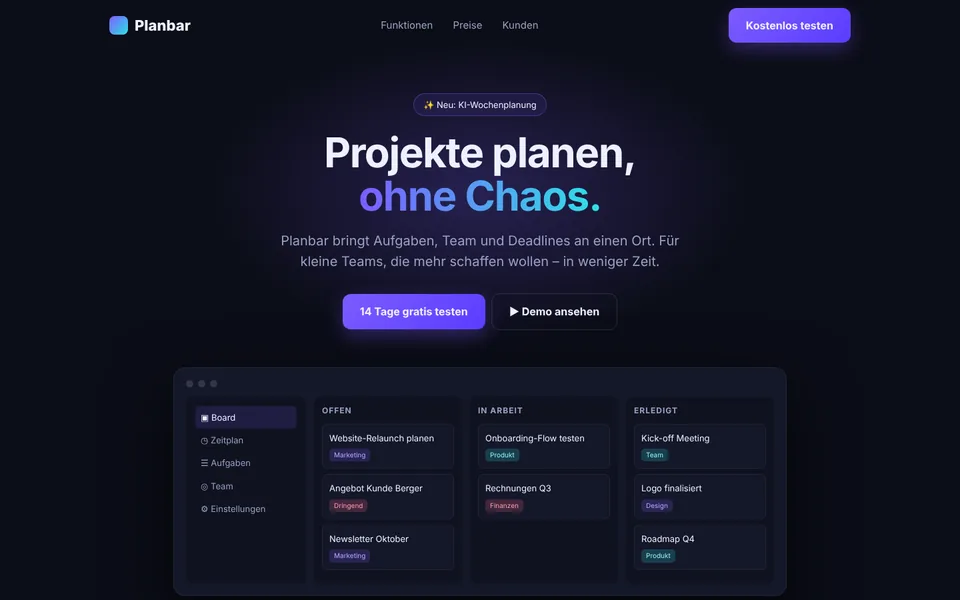
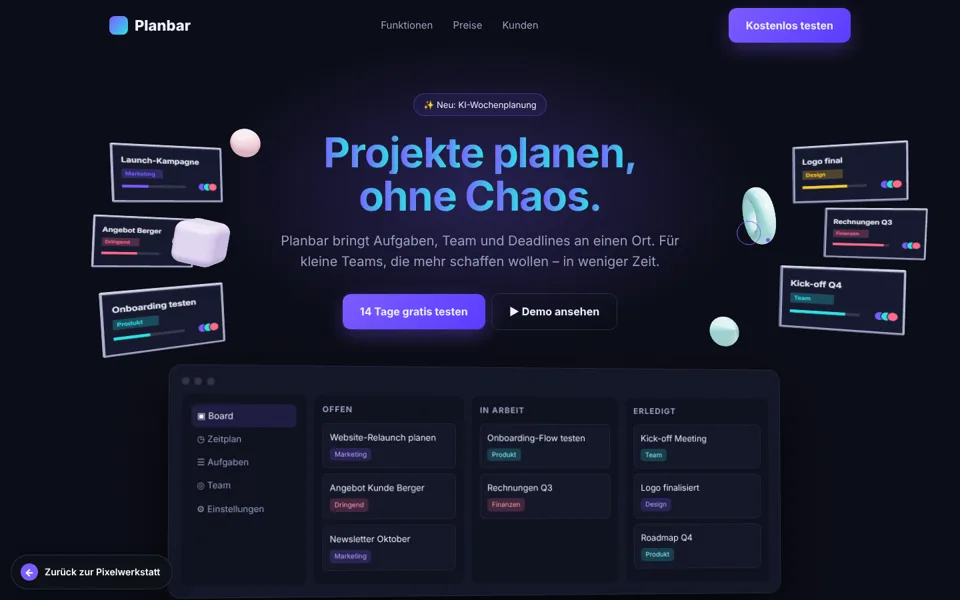
Klassische Demos: Echtzeit-3D-Heroes (Wallbox, Balance-Steine, schwebende Task-Karten) via hero3d.js
Claude-Session: https://claude.ai/code/session_01Whvt8ir917kdNCrT7gGHh6

diff --git a/fiverr/landingpages/hero3d.js b/fiverr/landingpages/hero3d.js
@@ -1,0 +1,177 @@
+/* Real-time 3D hero scenes for the classic demos (three.js r147, UMD).
+   <canvas class="h3d" data-scene="wallbox|stones|cards"> — the scene follows the mouse, can be dragged
+   (wallbox, stones), floats gently, pauses when off screen and renders a still frame for reduced motion. */
+(() => {
+  'use strict';
+  if (!window.THREE || !THREE.RoomEnvironment || !THREE.RoundedBoxGeometry) return;
+  const reduce = matchMedia('(prefers-reduced-motion: reduce)').matches;
+  const fine = matchMedia('(pointer: fine)').matches;
+  const V = (x, y, z) => new THREE.Vector3(x, y, z);
+  let mx = 0, my = 0;
+  addEventListener('pointermove', e => { mx = e.clientX / innerWidth - .5; my = e.clientY / innerHeight - .5; }, {passive: true});
+
+  const phys = o => new THREE.MeshPhysicalMaterial(Object.assign({roughness: .35, clearcoat: .6, clearcoatRoughness: .2}, o));
+  const rbox = (w, h, d, r, mat) => new THREE.Mesh(new THREE.RoundedBoxGeometry(w, h, d, 4, r), mat);
+  const canvasTex = (w, h, draw) => { const c = document.createElement('canvas'); c.width = w; c.height = h; draw(c.getContext('2d'), w, h); const t = new THREE.CanvasTexture(c); t.encoding = THREE.sRGBEncoding; t.anisotropy = 8; return t; };
+  const bolt = (s, depth, mat) => {
+    const sh = new THREE.Shape();
+    [[.15, 1], [-.45, -.05], [-.05, -.05], [-.2, -1], [.45, .15], [.05, .15], [.15, 1]].forEach(([x, y], i) => i ? sh.lineTo(x * s, y * s) : sh.moveTo(x * s, y * s));
+    const g = new THREE.ExtrudeGeometry(sh, {depth, bevelEnabled: true, bevelSize: s * .04, bevelThickness: s * .04, bevelSegments: 2});
+    g.center();
+    return new THREE.Mesh(g, mat);
+  };
+
+  // ---------------- scenes ----------------
+  const SCENES = {
+    wallbox(root, tick) {                       // electrician: wallbox, coiled cable, solar panel, flying bolts
+      const white = phys({color: 0xf4f5f7, roughness: .25, clearcoat: 1});
+      const glass = phys({color: 0x0d1420, roughness: .08, metalness: .2, clearcoat: 1});
+      const amber = new THREE.MeshStandardMaterial({color: 0xffc928, emissive: 0xffb300, emissiveIntensity: 1.2});
+      const rubber = phys({color: 0x1a1d22, roughness: .55, clearcoat: .2});
+      const box = new THREE.Group(); root.add(box);
+      box.add(rbox(1.7, 2.5, .55, .26, white));
+      const face = rbox(1.36, 1.7, .06, .12, glass); face.position.set(0, .2, .29); box.add(face);
+      const ring = new THREE.Mesh(new THREE.TorusGeometry(.34, .045, 16, 64), amber); ring.position.set(0, .35, .33); box.add(ring);
+      const b = bolt(.22, .04, amber); b.position.set(0, .35, .33); box.add(b);
+      const dots = [0, 1, 2].map(i => { const d = new THREE.Mesh(new THREE.SphereGeometry(.035, 12, 8), amber.clone()); d.position.set(-.18 + i * .18, -.35, .33); box.add(d); return d; });
+      // cable leaves the bottom and coils toward a plug
+      const pts = [V(0, -1.25, 0), V(0, -1.7, .1)];
+      for (let i = 0; i <= 40; i++) { const a = i / 40 * Math.PI * 3.2; pts.push(V(Math.cos(a) * .55 + .55, -1.9 - i * .012, Math.sin(a) * .55 + .3)); }
+      pts.push(V(1.6, -2.1, .9), V(2.1, -1.8, 1.2));
+      const cable = new THREE.Mesh(new THREE.TubeGeometry(new THREE.CatmullRomCurve3(pts), 220, .07, 12), rubber); root.add(cable);
+      const plug = new THREE.Group(); plug.position.set(2.15, -1.75, 1.25); plug.rotation.z = .6; root.add(plug);
+      plug.add(rbox(.32, .55, .32, .1, rubber));
+      const tip = new THREE.Mesh(new THREE.CylinderGeometry(.11, .11, .14, 24), white); tip.position.y = .33; plug.add(tip);
+      // solar panel
+      const cells = canvasTex(512, 320, (g, w, h) => {
+        g.fillStyle = '#0d2a5c'; g.fillRect(0, 0, w, h);
+        for (let x = 0; x < 8; x++) for (let y = 0; y < 5; y++) { const gr = g.createLinearGradient(x * 64, y * 64, x * 64 + 64, y * 64 + 64); gr.addColorStop(0, '#1d4b9a'); gr.addColorStop(1, '#10336f'); g.fillStyle = gr; g.fillRect(x * 64 + 3, y * 64 + 3, 58, 58); }
+        g.strokeStyle = 'rgba(220,230,255,.35)'; g.lineWidth = 1.5;   // busbars
+        for (let x = 0; x < 8; x++) for (let k = 1; k < 4; k++) { g.beginPath(); g.moveTo(x * 64 + 3 + k * 16, 0); g.lineTo(x * 64 + 3 + k * 16, h); g.stroke(); }
+      });
+      const panel = new THREE.Group(); panel.position.set(-2.3, 1.4, -1.2); panel.rotation.set(-.9, .5, .15); root.add(panel);
+      panel.add(rbox(2.7, 1.75, .09, .03, phys({color: 0xc9ced6, metalness: .8, roughness: .3})));
+      const cellMesh = new THREE.Mesh(new THREE.PlaneGeometry(2.56, 1.6), phys({map: cells, roughness: .15, metalness: .3, clearcoat: 1}));
+      cellMesh.position.z = .05; panel.add(cellMesh);
+      // orbiting bolts
+      const flyers = Array.from({length: 7}, (_, i) => { const m = bolt(.12 + Math.random() * .08, .03, amber); root.add(m); return {m, a: i / 7 * Math.PI * 2, r: 2.4 + Math.random() * .6, y: (Math.random() - .5) * 2.6, sp: .3 + Math.random() * .25}; });
+      root.position.set(.2, .5, 0);
+      tick((t, dt) => {
+        const p = .75 + Math.sin(t * 2.4) * .45;
+        amber.emissiveIntensity = p; ring.rotation.z = t * .6;
+        dots.forEach((d, i) => { d.material.emissiveIntensity = (Math.sin(t * 4 - i) > .3 ? 1.6 : .15); });
+        flyers.forEach(f => { f.a += f.sp * dt; f.m.position.set(Math.cos(f.a) * f.r, f.y + Math.sin(f.a * 2) * .2, Math.sin(f.a) * f.r * .6); f.m.rotation.set(t, f.a * 2, t * .5); });
+        panel.position.y = 1.4 + Math.sin(t * .9) * .12; plug.position.y = -1.75 + Math.sin(t * 1.3) * .06;
+      });
+      return {dist: 8.6, drag: true};
+    },
+
+    stones(root, tick) {                         // coaching: balanced pebbles, slow orbit rings
+      const noisy = (r, sx, sy, sz, seed) => {
+        const g = new THREE.SphereGeometry(r, 64, 40), p = g.attributes.position, v = new THREE.Vector3();
+        for (let i = 0; i < p.count; i++) { v.fromBufferAttribute(p, i); const n = Math.sin(v.x * 3 + seed) * Math.sin(v.y * 4 + seed * 2) * Math.sin(v.z * 3.5 + seed) * .06; v.multiplyScalar(1 + n); p.setXYZ(i, v.x * sx, v.y * sy, v.z * sz); }
+        g.computeVertexNormals(); return g;
+      };
+      const cols = [0x8fa58a, 0xd8ccb8, 0xc9826b, 0xb9b4ab, 0x3f5f4a];
+      const spec = [[1.15, 1, .42, 1, 0], [.95, 1.05, .4, .95, .03], [.78, 1, .45, 1, -.05], [.6, 1.1, .5, .95, .04], [.42, 1, .55, 1, 0]];
+      let y = -1.6;
+      const stack = spec.map(([r, sx, sy, sz, off], i) => {
+        const m = new THREE.Mesh(noisy(r, sx, sy, sz, i * 1.7), phys({color: cols[i], roughness: .55, clearcoat: .35}));
+        y += r * sy * (i ? 1 : .2) + (i ? spec[i - 1][0] * spec[i - 1][2] : 0) * .92;
+        m.position.set(off, y, 0); m.rotation.y = i; root.add(m); return {m, base: y, off};
+      });
+      const gold = new THREE.MeshStandardMaterial({color: 0xd8b56a, metalness: .9, roughness: .25});
+      const rings = [[2.4, .2], [2.9, -.35]].map(([R, tilt]) => { const t = new THREE.Mesh(new THREE.TorusGeometry(R, .018, 12, 160), gold); t.rotation.set(Math.PI / 2 + tilt, 0, tilt); t.position.y = .2; root.add(t); return t; });
+      const motes = Array.from({length: 14}, (_, i) => { const m = new THREE.Mesh(new THREE.SphereGeometry(.05 + Math.random() * .05, 16, 12), gold); root.add(m); return {m, a: Math.random() * 6.28, r: 2.4 + Math.random() * .6, y: -1 + Math.random() * 2.6, sp: .15 + Math.random() * .2}; });
+      const shadow = new THREE.Mesh(new THREE.PlaneGeometry(4, 4), new THREE.MeshBasicMaterial({map: canvasTex(128, 128, (g, w) => { const r = g.createRadialGradient(64, 64, 4, 64, 64, 64); r.addColorStop(0, 'rgba(30,40,30,.45)'); r.addColorStop(1, 'rgba(30,40,30,0)'); g.fillStyle = r; g.fillRect(0, 0, w, w); }), transparent: true, depthWrite: false}));
+      shadow.rotation.x = -Math.PI / 2; shadow.position.y = -1.95; root.add(shadow);
+      tick((t, dt) => {
+        stack.forEach((s, i) => { s.m.position.x = s.off + Math.sin(t * .8 + i * .6) * .03 * i + mx * .08 * i; s.m.rotation.z = Math.sin(t * .7 + i) * .03 * i - mx * .04 * i; s.m.position.y = s.base + Math.sin(t * 1.1) * .03 * i; });
+        rings[0].rotation.z += dt * .15; rings[1].rotation.z -= dt * .1;
+        motes.forEach(m => { m.a += m.sp * dt; m.m.position.set(Math.cos(m.a) * m.r, m.y + Math.sin(t + m.a) * .1, Math.sin(m.a) * m.r); });
+      });
+      return {dist: 10.5, drag: true, fov: 30};
+    },
+
+    cards(root, tick, el) {                      // app: floating task cards and 3D icons around the headline
+      const tags = [['Marketing', '#7c5cff'], ['Produkt', '#2de2e6'], ['Dringend', '#ff6b8a'], ['Design', '#ffc928'], ['Team', '#2de2e6'], ['Finanzen', '#ff6b8a']];
+      const titles = ['Launch-Kampagne', 'Onboarding testen', 'Angebot Berger', 'Logo final', 'Kick-off Q4', 'Rechnungen Q3'];
+      const cardTex = (i) => canvasTex(512, 300, (g, w, h) => {
+        g.fillStyle = '#161a30'; g.fillRect(0, 0, w, h);
+        g.fillStyle = '#ffffff14'; g.fillRect(0, 0, w, 6);
+        g.font = '600 40px "Segoe UI",system-ui,sans-serif'; g.fillStyle = '#eef0ff'; g.fillText(titles[i], 36, 92);
+        g.fillStyle = tags[i][1] + '40'; g.fillRect(36, 128, 190, 50); g.fillStyle = tags[i][1]; g.font = '600 28px "Segoe UI",system-ui,sans-serif'; g.fillText(tags[i][0], 52, 163);
+        g.fillStyle = '#ffffff22'; g.fillRect(36, 216, 300, 14); g.fillStyle = tags[i][1]; g.fillRect(36, 216, 120 + i * 30, 14);
+        ['#7c5cff', '#2de2e6', '#ff6b8a'].forEach((c, k) => { g.fillStyle = c; g.beginPath(); g.arc(420 + k * 26, 222, 22, 0, 7); g.fill(); g.strokeStyle = '#161a30'; g.lineWidth = 5; g.stroke(); });
+      });
+      const edge = phys({color: 0x2a2f55, roughness: .3, metalness: .2});
+      const spots = [[-10.4, 2.3, -1], [-9.4, -1.7, .6], [-12.6, .2, -3], [10.4, 2.5, -.6], [9.4, -1.5, .8], [12.6, .4, -3]];
+      const items = spots.map(([x, y, z], i) => {
+        const g = new THREE.Group(); g.position.set(x, y, z); root.add(g);
+        g.add(rbox(3, 1.76, .1, .14, edge));
+        const face = new THREE.Mesh(new THREE.PlaneGeometry(2.86, 1.62), new THREE.MeshBasicMaterial({map: cardTex(i), toneMapped: false})); face.position.z = .056; g.add(face);
+        return {g, x, y, z, ph: Math.random() * 6.28, ry: (x < 0 ? .45 : -.45)};
+      });
+      const violet = phys({color: 0x7c5cff, roughness: .15, clearcoat: 1}), cyan = phys({color: 0x2de2e6, roughness: .15, clearcoat: 1}), pink = phys({color: 0xff6b8a, roughness: .2, clearcoat: 1});
+      const check = new THREE.Group(); check.position.set(-7.3, .2, 1.6); root.add(check);
+      check.add(rbox(1.1, 1.1, 1.1, .26, violet));
+      const tick3 = new THREE.Mesh(new THREE.TubeGeometry(new THREE.CatmullRomCurve3([V(-.28, 0, .58), V(-.08, -.2, .58), V(.3, .25, .58)], false, 'catmullrom', 0), 24, .07, 10), new THREE.MeshStandardMaterial({color: 0xffffff, emissive: 0xffffff, emissiveIntensity: .4}));
+      check.add(tick3);
+      const tor = new THREE.Mesh(new THREE.TorusGeometry(.55, .22, 24, 64), cyan); tor.position.set(7.4, .9, 1.4); root.add(tor);
+      const ball = new THREE.Mesh(new THREE.SphereGeometry(.42, 48, 32), pink); ball.position.set(-7, 3.3, -.4); root.add(ball);
+      const cone = new THREE.Mesh(new THREE.ConeGeometry(.42, .7, 48), cyan); cone.position.set(7, -2.1, .6); root.add(cone);
+      const floaters = [check, tor, ball, cone].map(o => ({o, y: o.position.y, ph: Math.random() * 6.28}));
+      tick((t) => {
+        items.forEach(it => { it.g.position.y = it.y + Math.sin(t * .8 + it.ph) * .18; it.g.rotation.set(Math.sin(t * .5 + it.ph) * .06 - my * .2, it.ry + mx * .35, Math.sin(t * .4 + it.ph) * .03); it.g.position.x = it.x + mx * (2.2 - it.z * .4); });
+        floaters.forEach(f => { f.o.position.y = f.y + Math.sin(t * 1.1 + f.ph) * .2; f.o.rotation.x = t * .5 + f.ph; f.o.rotation.y = t * .7; });
+      });
+      return {dist: 16, drag: false, fov: 40, still: true};
+    },
+  };
+
+  // ---------------- runner ----------------
+  document.querySelectorAll('canvas.h3d').forEach(canvas => {
+    const make = SCENES[canvas.dataset.scene];
+    if (!make) return;
+    let renderer;
+    try { renderer = new THREE.WebGLRenderer({canvas, antialias: true, alpha: true, powerPreference: 'high-performance'}); } catch (_) { return; }
+    renderer.setPixelRatio(Math.min(devicePixelRatio, 2));
+    renderer.outputEncoding = THREE.sRGBEncoding;
+    renderer.toneMapping = THREE.ACESFilmicToneMapping;
+    renderer.setClearColor(0, 0);
+    const scene = new THREE.Scene();
+    scene.environment = new THREE.PMREMGenerator(renderer).fromScene(new THREE.RoomEnvironment(), .04).texture;
+    const key = new THREE.DirectionalLight(0xfff2e0, 1.3); key.position.set(5, 8, 7); scene.add(key);
+    const root = new THREE.Group(), spinner = new THREE.Group(); spinner.add(root); scene.add(spinner);
+    const ticks = [];
+    const cfg = make(root, f => ticks.push(f), canvas);
+    const camera = new THREE.PerspectiveCamera(cfg.fov || 32, 1, .1, 200);
+    camera.position.set(0, .4, cfg.dist);
+    let spin = 0, vel = 0, drag = false, lastX = 0, visible = true;
+    if (cfg.drag && fine) {
+      canvas.style.cursor = 'grab'; canvas.style.touchAction = 'pan-y';
+      canvas.addEventListener('pointerdown', e => { drag = true; lastX = e.clientX; canvas.setPointerCapture(e.pointerId); canvas.style.cursor = 'grabbing'; });
+      canvas.addEventListener('pointermove', e => { if (!drag) return; vel = (e.clientX - lastX) * .012; spin += vel; lastX = e.clientX; });
+      const up = () => { drag = false; canvas.style.cursor = 'grab'; };
+      canvas.addEventListener('pointerup', up); canvas.addEventListener('pointercancel', up);
+    }
+    const resize = () => { const r = canvas.getBoundingClientRect(); if (!r.width) return; renderer.setSize(r.width, r.height, false); camera.aspect = r.width / r.height; camera.fov = (cfg.fov || 32) * (camera.aspect < .9 && !cfg.still ? 1.25 : 1); camera.updateProjectionMatrix(); };
+    resize(); addEventListener('resize', resize);
+    new IntersectionObserver(es => { visible = es[0].isIntersecting; }).observe(canvas);
+    canvas.classList.add('live'); canvas.parentElement.classList.add('h3d-live');
+    const t0 = performance.now(); let last = t0;
+    const frame = now => {
+      if (!reduce) requestAnimationFrame(frame);
+      if (!visible && !reduce) return;
+      const t = (now - t0) / 1000, dt = Math.min((now - last) / 1000, .05); last = now;
+      if (!drag) { vel *= .94; spin += vel; }
+      const sway = cfg.still ? 0 : Math.sin(t * .4) * .25;
+      spinner.rotation.y += ((cfg.still ? 0 : mx * .9) + sway + spin - spinner.rotation.y) * .07;
+      spinner.rotation.x += ((cfg.still ? 0 : my * .35) - spinner.rotation.x) * .07;
+      root.position.y = (root.userData.y ??= root.position.y) + (reduce ? 0 : Math.sin(t * .9) * .08);
+      ticks.forEach(f => f(reduce ? 2 : t, reduce ? 0 : dt));
+      renderer.render(scene, camera);
+    };
+    requestAnimationFrame(frame);
+  });
+})();

diff --git a/fiverr/index.html b/fiverr/index.html
@@ -229,9 +229,9 @@ footer{padding-block:36px 48px;display:flex;flex-wrap:wrap;justify-content:space
     <a class="tile big" href="landingpages/3d-immo.html"><div class="shot"><img src="pw/work-3d-immo.webp" width="960" height="600" alt="Landingpage Immobilienmakler mit 3D-Villa" loading="lazy"></div><div class="meta"><h3>Weitblick Immobilien</h3><span class="tag d3">3D</span></div><span class="mono">Makler · Demo</span></a>
     <a class="tile" href="landingpages/3d-gastro.html"><div class="shot"><img src="pw/work-3d-gastro.webp" width="960" height="600" alt="Landingpage Café mit 3D-Frühstückstisch" loading="lazy"></div><div class="meta"><h3>Café Morgenrot</h3><span class="tag d3">3D</span></div><span class="mono">Gastro · Demo</span></a>
     <a class="tile" href="landingpages/3d-tech.html"><div class="shot"><img src="pw/work-3d-tech.webp" width="960" height="600" alt="Landingpage App mit 3D-Smartphone" loading="lazy"></div><div class="meta"><h3>Flowbase</h3><span class="tag d3">3D</span></div><span class="mono">App / SaaS · Demo</span></a>
-    <a class="tile" href="landingpages/demo-handwerk.html"><div class="shot"><img src="pw/work-handwerk.webp" width="960" height="600" alt="Landingpage Elektriker" loading="lazy"></div><div class="meta"><h3>Voltwerk</h3><span class="tag">Klassisch</span></div><span class="mono">Elektriker · Demo</span></a>
-    <a class="tile big" href="landingpages/demo-coaching.html"><div class="shot"><img src="pw/work-coaching.webp" width="960" height="600" alt="Landingpage Coaching" loading="lazy"></div><div class="meta"><h3>Klarsicht Coaching</h3><span class="tag">Klassisch</span></div><span class="mono">Coaching · Demo</span></a>
-    <a class="tile big" href="landingpages/demo-app.html"><div class="shot"><img src="pw/work-app.webp" width="960" height="600" alt="Landingpage Projekt-App" loading="lazy"></div><div class="meta"><h3>Planbar</h3><span class="tag">Klassisch</span></div><span class="mono">Software · Demo</span></a>
+    <a class="tile" href="landingpages/demo-handwerk.html"><div class="shot"><img src="pw/work-handwerk.webp" width="960" height="600" alt="Landingpage Elektriker" loading="lazy"></div><div class="meta"><h3>Voltwerk</h3><span class="tag rt">Echtzeit-3D</span></div><span class="mono">Elektriker · Demo</span></a>
+    <a class="tile big" href="landingpages/demo-coaching.html"><div class="shot"><img src="pw/work-coaching.webp" width="960" height="600" alt="Landingpage Coaching" loading="lazy"></div><div class="meta"><h3>Klarsicht Coaching</h3><span class="tag rt">Echtzeit-3D</span></div><span class="mono">Coaching · Demo</span></a>
+    <a class="tile big" href="landingpages/demo-app.html"><div class="shot"><img src="pw/work-app.webp" width="960" height="600" alt="Landingpage Projekt-App" loading="lazy"></div><div class="meta"><h3>Planbar</h3><span class="tag rt">Echtzeit-3D</span></div><span class="mono">Software · Demo</span></a>
   </div>
 </div></section>
 

diff --git a/fiverr/landingpages/demo-coaching.html b/fiverr/landingpages/demo-coaching.html
@@ -27,6 +27,9 @@ h1 i{color:var(--green)}
 .portrait:after{content:"";position:absolute;left:50%;bottom:-10%;width:78%;height:52%;transform:translateX(-50%);border-radius:50% 50% 0 0;background:#e8dccbcc}
 .quote{position:absolute;left:-28px;bottom:40px;background:#fff;padding:18px 22px;border-radius:16px;box-shadow:0 20px 40px #0000001a;font-size:15px;max-width:240px;z-index:2}
 .hero-r{position:relative}
+.portrait canvas{position:absolute;inset:0;width:100%;height:100%;z-index:1}
+.portrait.h3d-live{background:radial-gradient(circle at 50% 38%,#f6f0e7 0%,#e4d8c6 70%,#d3c4ad 100%)}
+.portrait.h3d-live:before,.portrait.h3d-live:after{display:none}
 .logos{display:flex;justify-content:space-between;color:#a79f92;font-family:"Segoe UI",system-ui,Arial,sans-serif;font-weight:700;letter-spacing:2px;font-size:14px;border-top:1px solid #ddd2c2;border-bottom:1px solid #ddd2c2;padding:22px 0}
 section{padding:88px 0}
 h2{font-size:38px;font-weight:400;margin-bottom:14px}
@@ -60,7 +63,7 @@ nav .btn{white-space:nowrap}
     <p>Ich begleite Führungskräfte und Selbstständige dabei, wieder Prioritäten zu setzen – ohne Burnout, ohne schlechtes Gewissen.</p>
     <a class="btn" href="#termin">Kostenloses Erstgespräch</a>&nbsp;&nbsp;<a class="btn line" href="#angebot">Programm ansehen</a>
   </div>
-  <div class="hero-r"><div class="portrait"></div><div class="quote">„Nach 8 Wochen hatte ich meine Abende zurück.“<br><small class="sans" style="color:#77736a">— Julia, Geschäftsführerin</small></div></div>
+  <div class="hero-r"><div class="portrait"><canvas class="h3d" data-scene="stones" aria-label="3D-Modell: balancierte Steine mit goldenen Ringen. Ziehen zum Drehen."></canvas></div><div class="quote">„Nach 8 Wochen hatte ich meine Abende zurück.“<br><small class="sans" style="color:#77736a">— Julia, Geschäftsführerin</small></div></div>
 </div>
 
 <div class="logos"><span>500+ KLIENTEN</span><span>ZERTIFIZIERT</span><span>ONLINE & VOR ORT</span><span>SEIT 2014</span><span>4,9 ★ BEWERTUNG</span></div>
@@ -82,6 +85,10 @@ nav .btn{white-space:nowrap}
 
 <section id="termin"><div class="wrap"><div class="center"><h2>Lass uns sprechen.</h2><p>20 Minuten, kostenlos, unverbindlich. Wir finden heraus, ob Coaching dir jetzt hilft.</p><br><a class="btn" href="#">Termin wählen →</a></div></div></section>
 <footer class="sans">Demo-Landingpage · Design: Pixelwerkstatt · fiktive Person</footer>
+<script src="https://cdn.jsdelivr.net/npm/three@0.147.0/build/three.min.js"></script>
+<script src="https://cdn.jsdelivr.net/npm/three@0.147.0/examples/js/environments/RoomEnvironment.js"></script>
+<script src="https://cdn.jsdelivr.net/npm/three@0.147.0/examples/js/geometries/RoundedBoxGeometry.js"></script>
+<script src="hero3d.js"></script>
 <script src="fx.js" defer></script>
 </body>
 </html>

diff --git a/fiverr/landingpages/demo-handwerk.html b/fiverr/landingpages/demo-handwerk.html
@@ -52,6 +52,10 @@ section{padding:80px 0}
 .cta h2{font-size:32px;margin-bottom:10px}
 .cta .btn{background:var(--ink);color:#fff;display:inline-block;margin-top:18px}
 footer{background:var(--ink);color:#ffffffaa;font-size:14px;padding:28px 0;text-align:center}
+.hero-r{position:relative;min-width:0}
+.hero-r canvas{display:block;width:100%;height:440px}
+.hero-r .form{margin:-70px 0 0 auto;width:80%}
+@media(max-width:860px){.hero-r canvas{height:300px}.hero-r .form{width:100%;margin-top:-60px}}
 @media(max-width:860px){.hero .wrap,.grid{grid-template-columns:1fr}h1{font-size:34px}nav ul{display:none}.trust{gap:18px}}
 </style>
 </head>
@@ -70,12 +74,13 @@ footer{background:var(--ink);color:#ffffffaa;font-size:14px;padding:28px 0;text-
     <div class="btns"><a class="btn primary" href="#kontakt">Kostenloses Angebot</a><a class="btn ghost" href="#leistungen">Leistungen ansehen</a></div>
     <div class="trust"><div><b>15+</b>Jahre Erfahrung</div><div><b>1.200</b>Projekte</div><div><b>4,9 ★</b>Google</div></div>
   </div>
+  <div class="hero-r"><canvas class="h3d" data-scene="wallbox" aria-label="3D-Modell: Wallbox mit Ladekabel und Solarmodul. Ziehen zum Drehen."></canvas>
   <form class="form" id="kontakt" onsubmit="return false">
     <h3>Rückruf in 24 h</h3><small>Unverbindlich & kostenlos</small>
     <input placeholder="Name"><input placeholder="Telefonnummer">
     <select><option>Worum geht's?</option><option>Sanierung</option><option>Photovoltaik</option><option>Wallbox</option></select>
     <a class="btn primary" href="#">Jetzt anfragen →</a>
-  </form>
+  </form></div>
 </div></div>
 
 <section id="leistungen"><div class="wrap">
@@ -107,6 +112,10 @@ footer{background:var(--ink);color:#ffffffaa;font-size:14px;padding:28px 0;text-
 
 <div class="cta"><div class="wrap"><h2>Bereit für Ihr Projekt?</h2><p>Jetzt unverbindlich anfragen – wir melden uns innerhalb von 24 Stunden.</p><a class="btn" href="#kontakt">Kostenloses Angebot anfordern</a></div></div>
 <footer>Demo-Landingpage · Design: Pixelwerkstatt · fiktives Unternehmen</footer>
+<script src="https://cdn.jsdelivr.net/npm/three@0.147.0/build/three.min.js"></script>
+<script src="https://cdn.jsdelivr.net/npm/three@0.147.0/examples/js/environments/RoomEnvironment.js"></script>
+<script src="https://cdn.jsdelivr.net/npm/three@0.147.0/examples/js/geometries/RoundedBoxGeometry.js"></script>
+<script src="hero3d.js"></script>
 <script src="fx.js" defer></script>
 </body>
 </html>

diff --git a/fiverr/landingpages/demo-app.html b/fiverr/landingpages/demo-app.html
@@ -18,6 +18,8 @@ nav ul{display:flex;gap:30px;list-style:none;color:var(--muted);font-size:15px}
 .btn.p{background:linear-gradient(135deg,var(--violet),#5a3cff);box-shadow:0 10px 30px #7c5cff55}
 .btn.s{border:1px solid #ffffff22;color:var(--ink)}
 .hero{text-align:center;padding:64px 0 40px;position:relative}
+.hero>canvas.h3d{position:absolute;left:50%;top:-20px;width:min(1700px,100vw);height:600px;transform:translateX(-50%);z-index:-1;pointer-events:none}
+@media(max-width:1100px){.hero>canvas.h3d{display:none}}
 .hero:before{content:"";position:absolute;left:50%;top:-40px;transform:translateX(-50%);width:900px;height:500px;background:radial-gradient(ellipse,#7c5cff40,transparent 65%);z-index:-1}
 .pill{display:inline-block;border:1px solid #7c5cff66;background:#7c5cff1a;padding:6px 14px;border-radius:99px;font-size:13px;margin-bottom:22px}
 h1{font-size:62px;line-height:1.05;letter-spacing:-1.5px;margin-bottom:20px}
@@ -51,7 +53,7 @@ footer{text-align:center;color:var(--muted);font-size:14px;padding:40px 0}
 <body>
 <div class="wrap">
 <nav><div class="logo"><i></i>Planbar</div><ul><li>Funktionen</li><li>Preise</li><li>Kunden</li></ul><a class="btn p" href="#start">Kostenlos testen</a></nav>
-<div class="hero">
+<div class="hero"><canvas class="h3d" data-scene="cards" aria-hidden="true"></canvas>
   <div class="pill">✨ Neu: KI-Wochenplanung</div>
   <h1>Projekte planen,<br><span>ohne Chaos.</span></h1>
   <p>Planbar bringt Aufgaben, Team und Deadlines an einen Ort. Für kleine Teams, die mehr schaffen wollen – in weniger Zeit.</p>
@@ -80,6 +82,10 @@ footer{text-align:center;color:var(--muted);font-size:14px;padding:40px 0}
 
 <div class="wrap" id="start"><div class="cta"><h2>Starte heute – kostenlos.</h2><p>Keine Kreditkarte nötig. Jederzeit kündbar.</p><a class="btn" href="#">Jetzt Konto erstellen →</a></div></div>
 <footer>Demo-Landingpage · Design: Pixelwerkstatt · fiktives Produkt</footer>
+<script src="https://cdn.jsdelivr.net/npm/three@0.147.0/build/three.min.js"></script>
+<script src="https://cdn.jsdelivr.net/npm/three@0.147.0/examples/js/environments/RoomEnvironment.js"></script>
+<script src="https://cdn.jsdelivr.net/npm/three@0.147.0/examples/js/geometries/RoundedBoxGeometry.js"></script>
+<script src="hero3d.js"></script>
 <script src="fx.js" defer></script>
 </body>
 </html>
